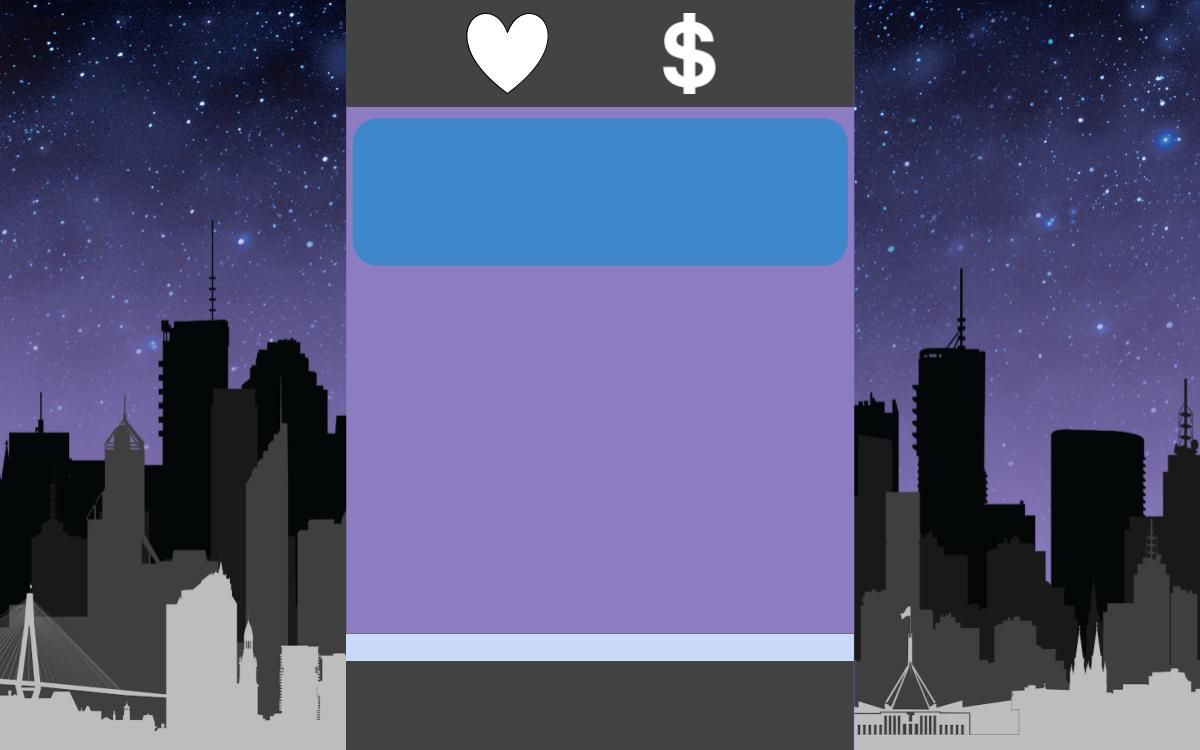
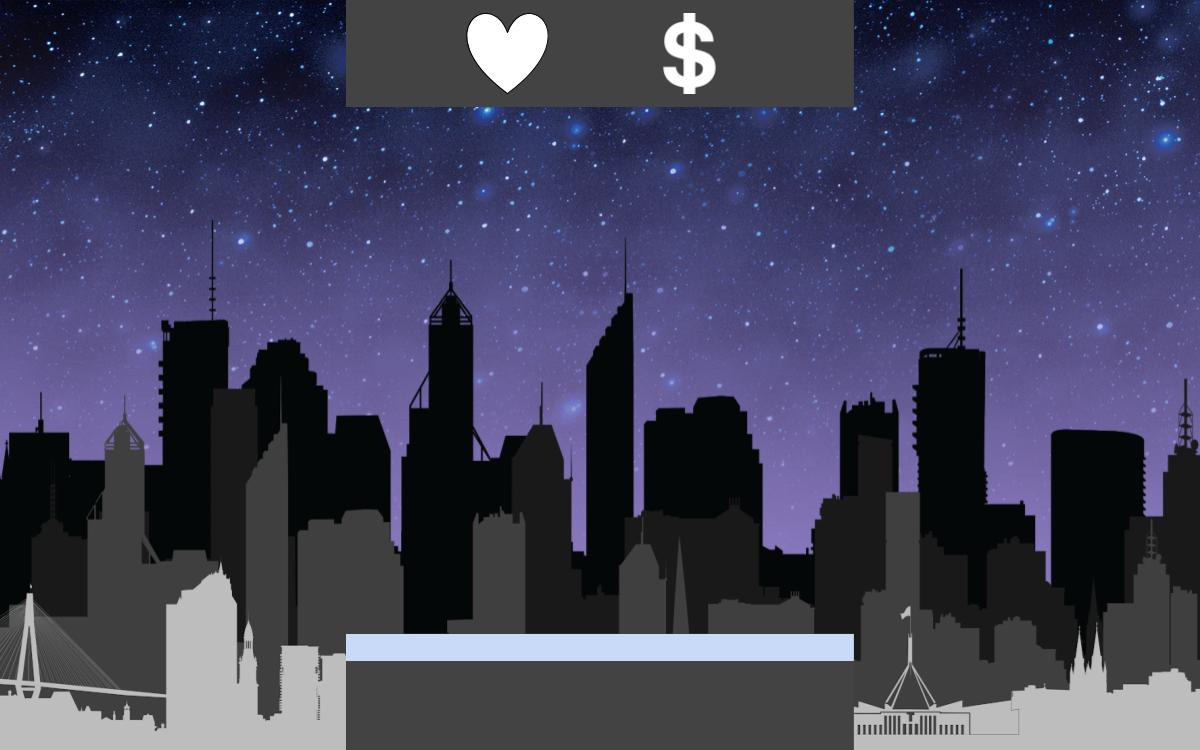
rectangles

Changed region(s): [[0.2775, 0.1227, 0.74, 0.8587]]

diff --git a/ISP/src/isp/tutorial.java b/ISP/src/isp/tutorial.java
@@ -44,6 +44,8 @@ public class tutorial {
     public static int [] factors = new int [2];
     public static Rectangle hr, mr;
     public static Pane root2;
+    public static Color qBlue = Color.rgb(62, 135, 203);
+    public static Color purp = Color.rgb(142, 124, 195);
     public static void buttonFlip(Button front, Button back){
         ScaleTransition stHideFront = new ScaleTransition(Duration.millis(500), front);
         stHideFront.setFromX(1);
@@ -68,6 +70,7 @@ public class tutorial {
         mr.setHeight(10+100-factors[1]);
     }
     public static void run(Stage window){
+        //styles of the buttons
         final String b_IDLE_BUTTON_STYLE = " -fx-background-color: #8e7cc3; ; -fx-text-fill: #ffffff";
         final String b_HOVERED_BUTTON_STYLE = "-fx-background-color: #674ea7;  -fx-text-fill: #ffffff;";
         final String b_CLICKED_BUTTON_STYLE = "-fx-background-color: #674ea7; ";
@@ -82,11 +85,38 @@ public class tutorial {
         factors[1] = 60;
         root2 = new Pane();
         
-        
+        //top left game mode
         Label gameID = new Label ("Tutorial");
         gameID.setFont(new Font("Arial",18));
         gameID.setTextFill(Color.web("#ffffff"));
         gameID.relocate(22,18);
+        
+        Rectangle qRect = new Rectangle();  
+        qRect.setX(352.0f); 
+        qRect.setY(118.0f); 
+        qRect.setWidth(496.0f); 
+        qRect.setHeight(149.0f); 
+       
+        //Setting the height and width of the arc 
+        qRect.setArcWidth(50.0); 
+        qRect.setArcHeight(50.0);  
+        qRect.setFill(qBlue);
+        
+        Rectangle cardRect = new Rectangle();  
+        cardRect.setX(346.0f); 
+        cardRect.setY(107.0f); 
+        cardRect.setWidth(508.0f); 
+        cardRect.setHeight(527.0f); 
+        
+        cardRect.setFill(purp);
+        
+        
+        
+        
+        
+        
+        
+        
         
         
         Image bg  = new Image("TutorialScreen.jpg");
@@ -135,6 +165,8 @@ public class tutorial {
         bob3.setPreserveRatio(true);
         bob3.setSmooth(true);
         bob3.relocate(883,138);
+        root2.getChildren().add(cardRect);
+        root2.getChildren().add(qRect);
         root2.getChildren().add(ch);
         root2.getChildren().add(ch2);
         root2.getChildren().add(ch3);
